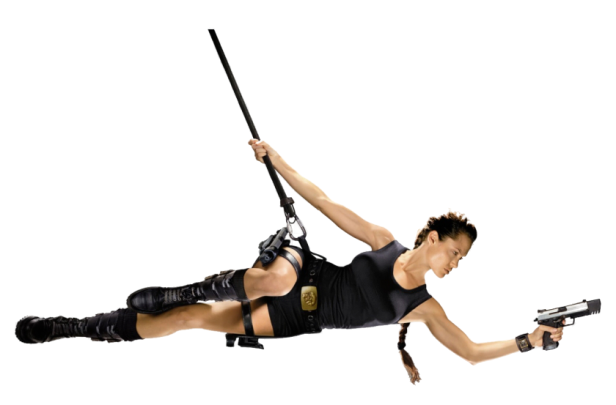
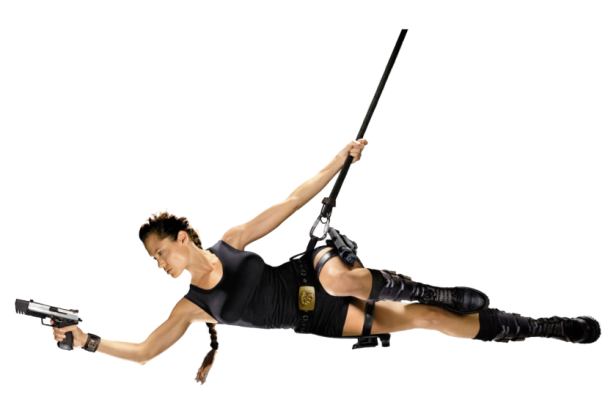
Update Lara Croft action

Changed region(s): [[0.0, 0.0593, 0.987, 0.9481]]

diff --git a/src/config.ts b/src/config.ts
@@ -257,7 +257,7 @@ export const actions: IAction[] = [
     speed: SpeedsEnum.SLOWER,
   },
   {
-    animation: AnimationsEnum.BOUNCE_IN_LEFT,
+    animation: AnimationsEnum.FADE_IN_RIGHT,
     id: ActionIdsEnum.LARA_CROFT,
     probability: ProbabilitiesEnum.IMAGE,
     selector: '.lara-croft',

diff --git a/src/styles.scss b/src/styles.scss
@@ -294,7 +294,7 @@ main {
 }
 
 .lara-croft {
-  @include action-image($top: -304px, $left: -600px, $z-index: $z-index-image-below);
+  @include action-image($top: -300px, $left: 20px, $z-index: $z-index-image-below);
 }
 
 .breaking-bad {
